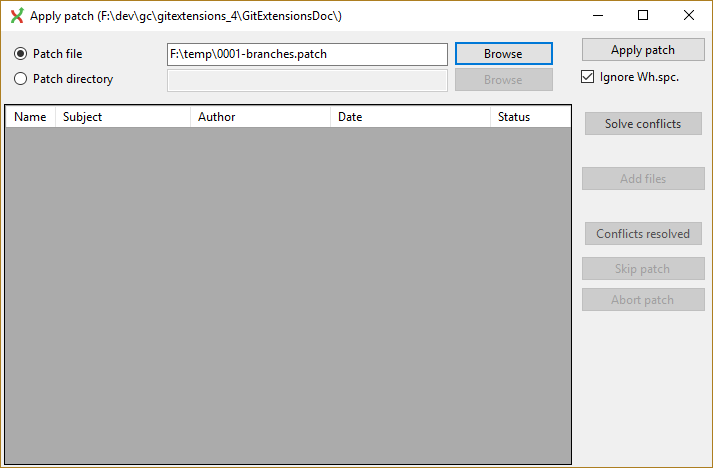
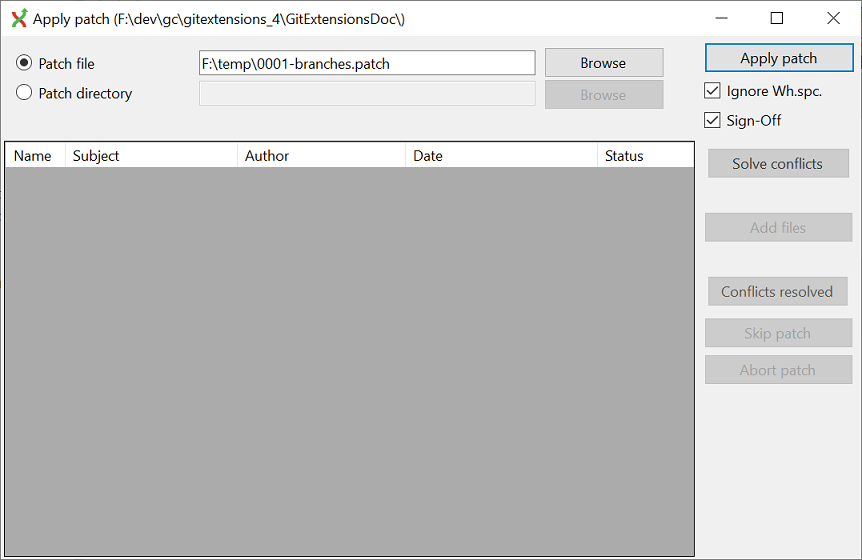
Updated apply patch docs according to changes in PR 8067 in GitExtensions repo

Changed region(s): [[0.0, 0.0, 1.0, 1.0], [0.0, 0.0, 0.4937, 0.0598], [0.0, 0.0897, 0.1543, 0.1795]]

diff --git a/source/patches.rst b/source/patches.rst
@@ -29,4 +29,6 @@ It is possible to apply a single patch file or all patches in a directory. When 
 you need to resolve them before you can continue. Git Extensions will help you applying all patches by marking the next
 recommended step.
 
+Use 'Sign-Off' checkbox to sign off commits of applying patch. Git Extensions will remember your choice.
+
 .. image:: /images/apply_patche.png
